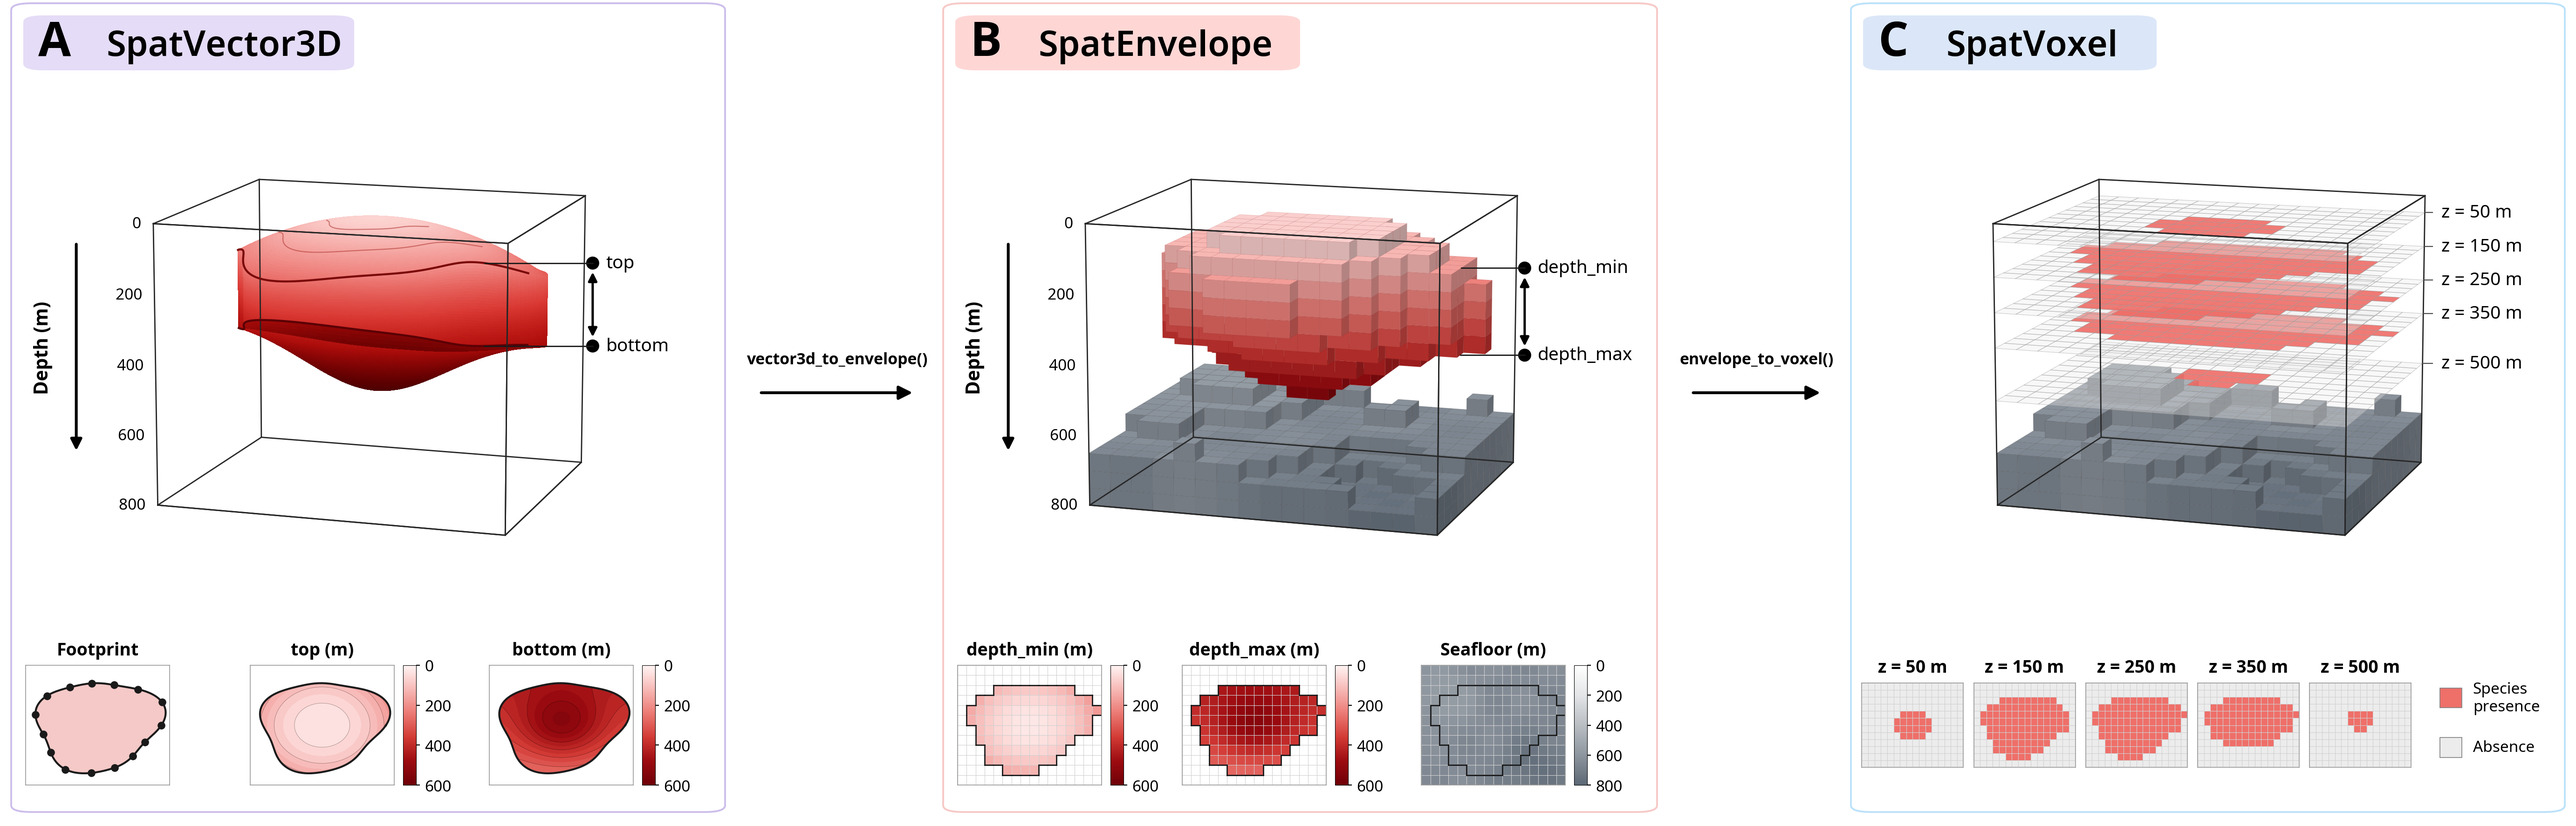
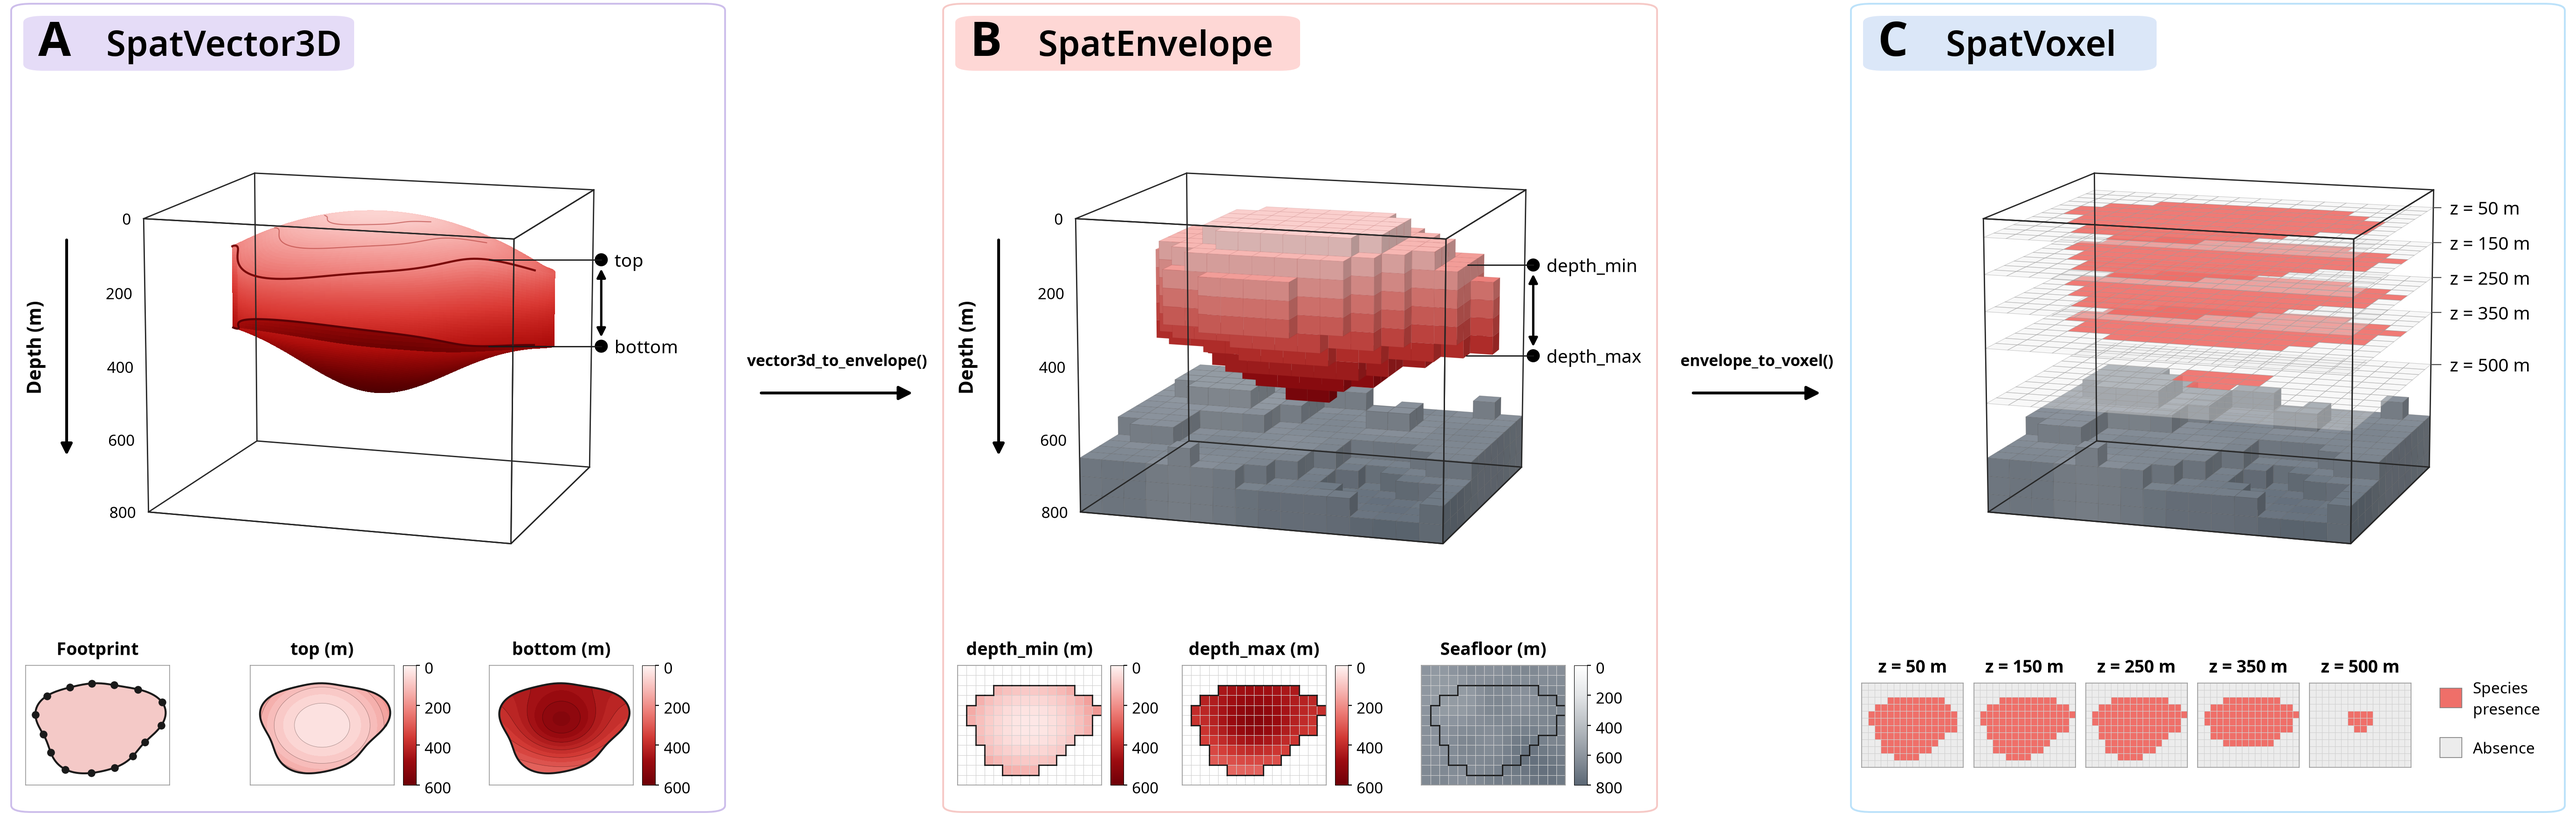
Match panel C of the comparison figure to envelope_to_voxel()
Panel C marked a depth level occupied only when the level itself fell
inside the envelope. envelope_to_voxel() (default bounds = "top") marks it
occupied when the envelope shares water with the slab from that level down
to the next, and the deepest level only when the envelope reaches below
it. Use the same rule and regenerate the PNG.

Claude-Session: https://claude.ai/code/session_015owzeuyrQt2opmHfJAyRqe

diff --git a/figures/fig-spatvector3d-comparison.py b/figures/fig-spatvector3d-comparison.py
@@ -111,9 +111,20 @@ seafloor = np.round(seafloor_depth(xc, yc), -1)
 depth_min = np.where(inside, np.round(top_depth(xc, yc)), np.nan)
 depth_max = np.where(inside, np.minimum(np.round(bottom_depth(xc, yc)), seafloor),
                      np.nan)
-# envelope_to_voxel(): presence at each standard depth
+# envelope_to_voxel() with its default bounds = "top": each level stands for
+# the slab from it down to the next level, and a cell occupies the level when
+# its envelope shares some water with that slab. The deepest level has no
+# next level, so it counts only when the envelope reaches below it.
 STD_DEPTHS = [50, 150, 250, 350, 500]
-presence = {z: inside & (depth_min <= z) & (depth_max >= z) for z in STD_DEPTHS}
+slab_lower = STD_DEPTHS
+slab_upper = STD_DEPTHS[1:] + STD_DEPTHS[-1:]
+presence = {}
+for i, z in enumerate(STD_DEPTHS):
+    if i == len(STD_DEPTHS) - 1:
+        overlap = (depth_min <= slab_upper[i]) & (depth_max > slab_lower[i])
+    else:
+        overlap = (depth_min < slab_upper[i]) & (depth_max > slab_lower[i])
+    presence[z] = inside & overlap
 
 # ---- figure layout ---------------------------------------------------------------
 PW, H = 7.9, 8.87  # panel slot width and figure height, inches
